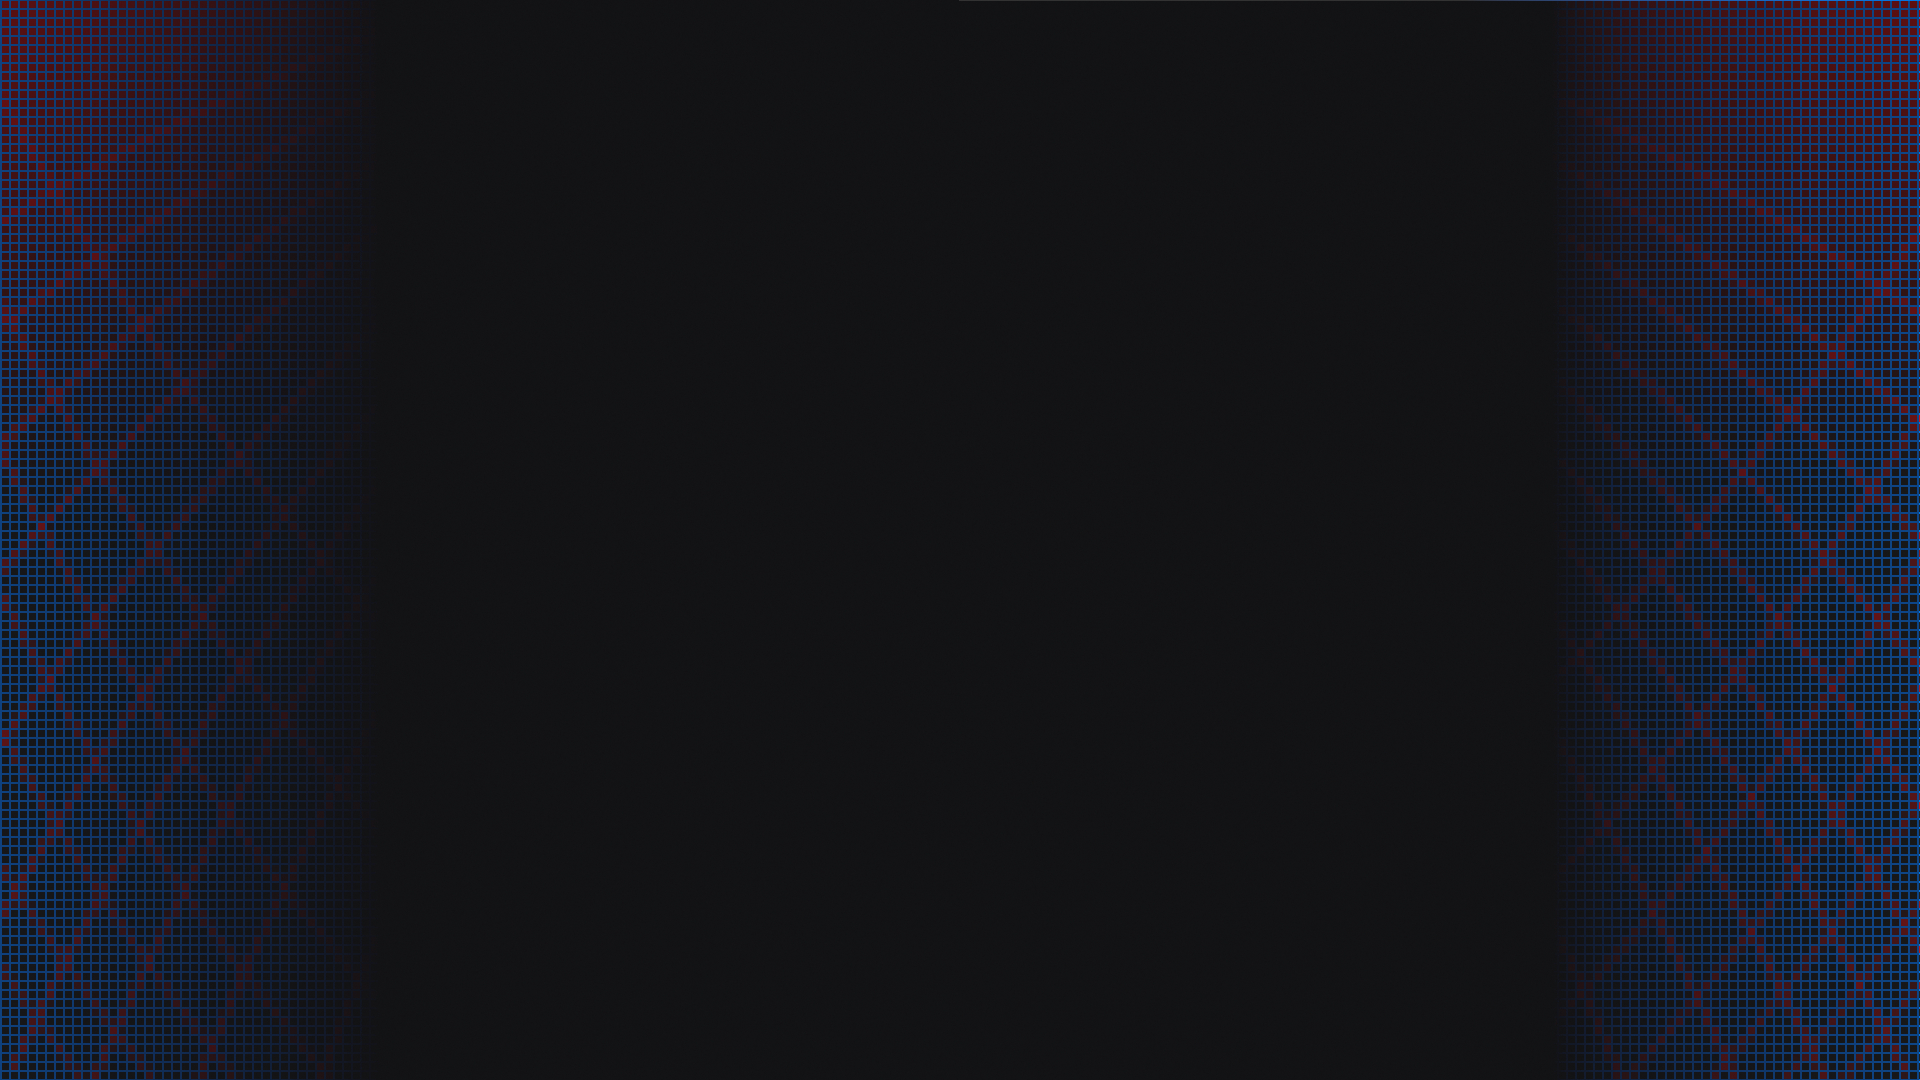
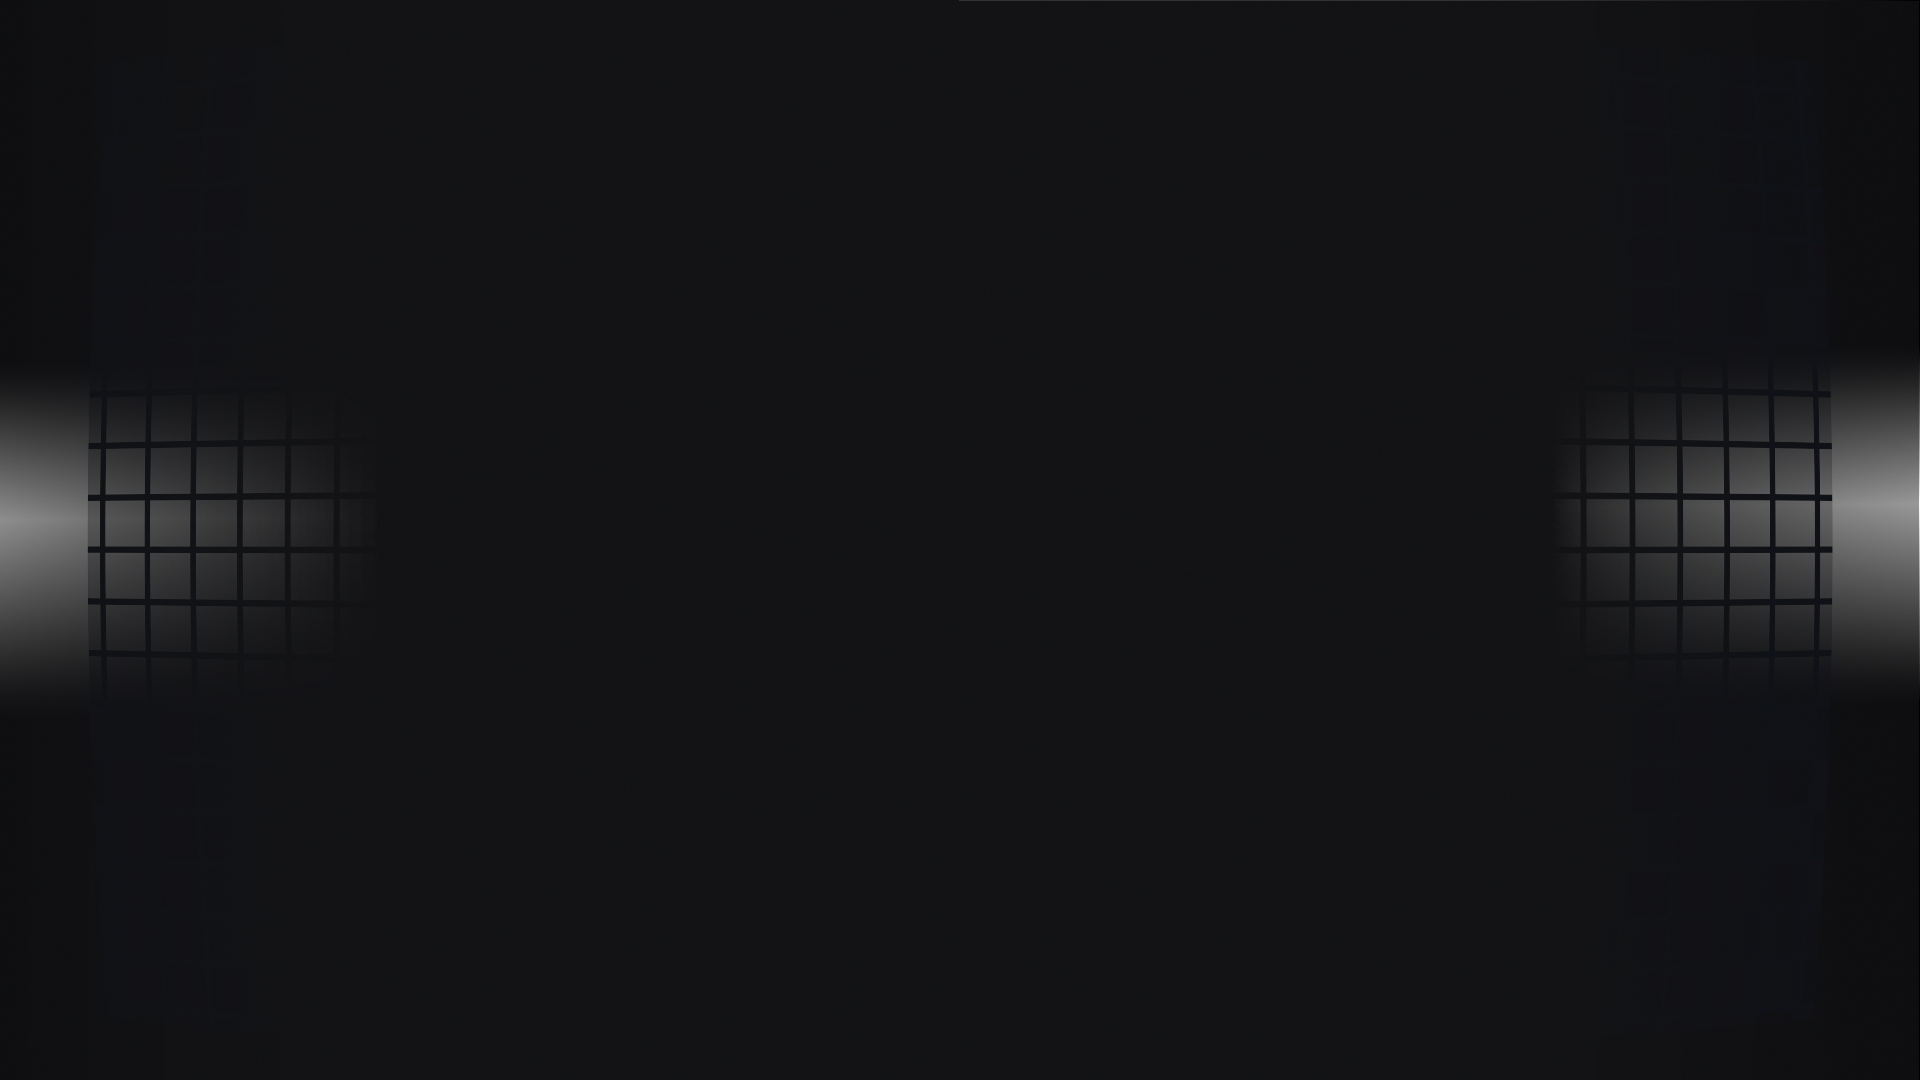
bg, various

Changed region(s): [[0.8125, 0.0, 1.0, 1.0], [0.0, 0.0, 0.1562, 1.0]]

diff --git a/all.html b/all.html
@@ -2,7 +2,7 @@
 <hr/>
 <ul class = "submenu_site">
 	<li>
-		<a href="#/hmac_sha256">HMAC SHA-256 and something about bit level data operations</a>
+		<a href="#/hmac_sha256">HMAC SHA-256, something about bit level data operations and stopwatch</a>
 		/
 		<a href="#/hmac_sha256_de" style ="color:#f00;">DE Version</a>
 	</li>	
@@ -27,7 +27,7 @@
 		<a href="#/ffmpeg_video_tbnl_script_de" style ="color:#f00;">DE Version</a>
 	</li>
 	<li>
-		<a href="#/screenshot_taker">Screenshot Taker</a>
+		<a href="#/screenshot_taker">Screenshot Taker and proper current time catching in C++</a>
 		/
 		<a href="#/screenshot_taker_de" style ="color:#f00;">DE Version</a>
 	</li>		

diff --git a/cpp.html b/cpp.html
@@ -2,12 +2,12 @@
 <hr/>
 <ul class = "submenu_site">
 	<li>
-		<a href="#/hmac_sha256">HMAC SHA-256 and something about bit level data operations</a>
+		<a href="#/hmac_sha256">HMAC SHA-256, something about bit level data operations and stopwatch</a>
 		/
 		<a href="#/hmac_sha256_de" style ="color:#f00;">DE Version</a>
 	</li>		
 	<li>
-		<a href="#/screenshot_taker">Screenshot Taker</a>
+		<a href="#/screenshot_taker">Screenshot Taker and proper current time catching in C++</a>
 		/
 		<a href="#/screenshot_taker_de" style ="color:#f00;">DE Version</a>
 	</li>

diff --git a/hmac_sha256_de.html b/hmac_sha256_de.html
@@ -1,4 +1,4 @@
-<span class = "content_title"> <a href="#/cpp"> C++</a> / <span class = "content_title_current">HMAC SHA-256 and something about bit level data operations <span style="color:#f00;">DE Version</span></span></span>
+<span class = "content_title"> <a href="#/cpp"> C++</a> / <span class = "content_title_current">HMAC SHA-256, something about bit level data operations and stopwatch <span style="color:#f00;">DE Version</span></span></span>
 <hr/>
 <br/>
 

diff --git a/move_files_to_dirs_10k_de.html b/move_files_to_dirs_10k_de.html
@@ -1,4 +1,4 @@
-<span class = "content_title"> <a href="#/cpp"> C++</a> / <span class = "content_title_current">HMAC SHA-256 and something about bit level data operations <span style="color:#f00;">DE Version</span></span></span>
+<span class = "content_title"> <a href="#/cpp"> C++</a> / <span class = "content_title_current">Move large amount of files into subfolders with 10k limit using C++ <span style="color:#f00;">DE Version</span></span></span>
 <hr/>
 <br/>
 

diff --git a/hmac_sha256.html b/hmac_sha256.html
@@ -1,4 +1,4 @@
-<span class = "content_title"> <a href="#/cpp"> C++</a> / <span class = "content_title_current">HMAC SHA-256 and something about bit level data operations</span> </span>
+<span class = "content_title"> <a href="#/cpp"> C++</a> / <span class = "content_title_current">HMAC SHA-256, something about bit level data operations and stopwatch</span> </span>
 <hr/>
 <br/>
 

diff --git a/move_files_to_dirs_10k.html b/move_files_to_dirs_10k.html
@@ -1,4 +1,4 @@
-<span class = "content_title"> <a href="#/cpp"> C++</a> / <span class = "content_title_current">HMAC SHA-256 and something about bit level data operations</span> </span>
+<span class = "content_title"> <a href="#/cpp"> C++</a> / <span class = "content_title_current">Move large amount of files into subfolders with 10k limit using C++ </span> </span>
 <hr/>
 <br/>
 

diff --git a/windows.html b/windows.html
@@ -22,7 +22,7 @@
 		<a href="#/ffmpeg_video_tbnl_script_de" style ="color:#f00;">DE Version</a>
 	</li>
 	<li>
-		<a href="#/screenshot_taker">Screenshot Taker</a>
+		<a href="#/screenshot_taker">Screenshot Taker and proper current time catching in C++ </a>
 		/
 		<a href="#/screenshot_taker_de" style ="color:#f00;">DE Version</a>
 	</li>		

diff --git a/style/style.css b/style/style.css
@@ -73,7 +73,7 @@ border:1px solid #fff;*/
     background-size: cover;
 	background-repeat:no-repeat;
 	border-radius: 50px;
-	box-shadow: inset 0 5px 8px RoyalBlue, 0 12px 18px RoyalBlue;
+	box-shadow: inset 0 5px 8px Gray, 0 12px 18px Gray;
 }
 
 .banner {
